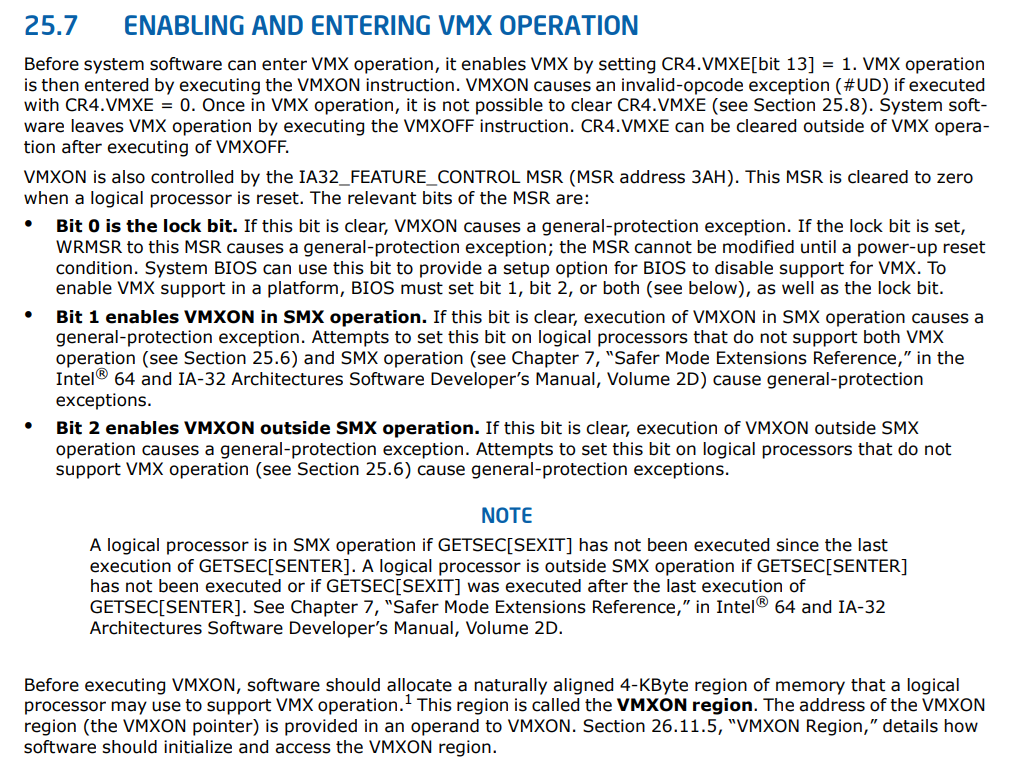
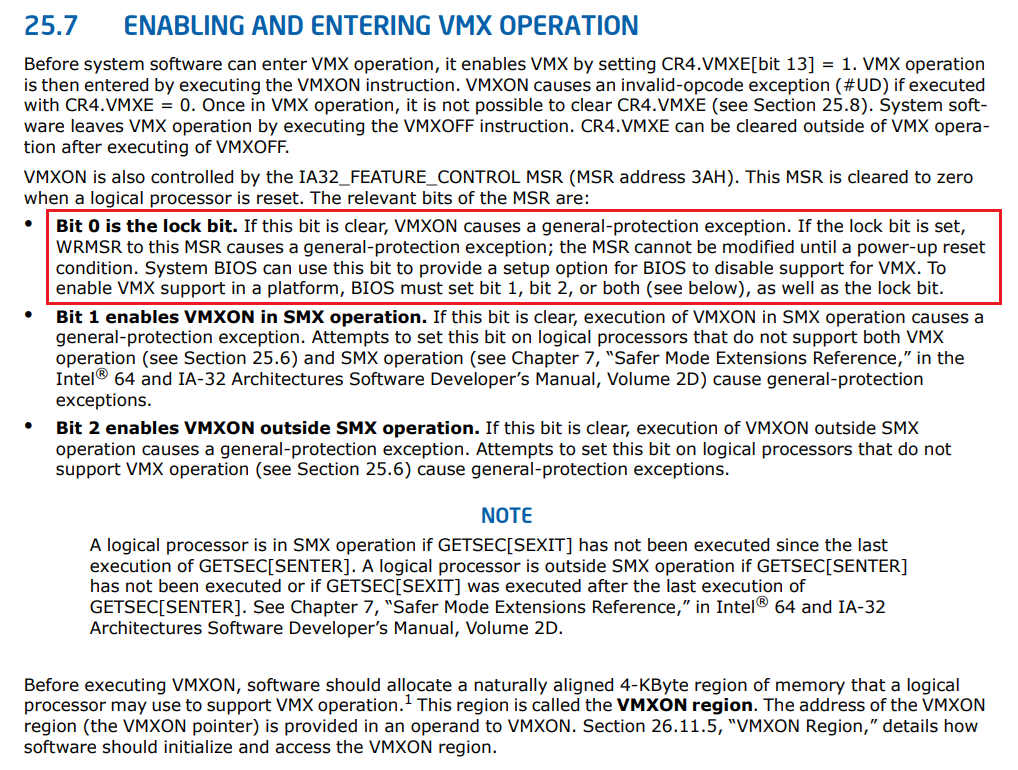
Intel Architecture

Changed region(s): [[0.0305, 0.2805, 1.0, 0.4052], [0.0609, 0.2494, 0.9745, 0.2805]]

diff --git a/_posts/2025-04-28-EPT.md b/_posts/2025-04-28-EPT.md
@@ -1,11 +1,11 @@
 ---
 title: Extended Page Table
 date: 2025-04-28 00:00:00 +/-TTTT
-categories: [Windows Internals]
-tags: [Windows Internals]
+categories: [Intel Architecture]
+tags: [Intel Architecture]
 ---
 
-작성 중... 내용이 너무 방대하다..
+작성 중... 내용이 너무 방대하다.. 
 
 ## EPT (Extended Page Table)
 EPT는 Intel CPU에서 제공하는 VT-x 메모리 가상화 기술 중 일부에 해당됩니다.  
@@ -175,24 +175,49 @@ produces a general-protection exception (#GP(0)).
 ```
 ### IA32_VMX_BASIC
 IA32_VMX_BASIC(480H)를 통해 반환되는 정보는 다음과 같습니다.  
-53:50에 해당되는 비트는 VMCS 및 참조되는 구조체에 대한 메모리 타입(Uncacheable, WriteBack 등)을 반환합니다.
+53:50 비트에 해당되는 값은 VMCS 및 참조되는 구조체에 대한 메모리 타입(Uncacheable, WriteBack)을 나타냅니다.
 ![](/assets/posts/2025-04-28-EPT/11.png)
 
 ### IA32_FEATURE_CONTROL
-IA32_FEATURE_CONTROL(3A)를 통해 제어어되는 정보는 다음과 같습니다.  
-비트 0
+IA32_FEATURE_CONTROL(3A)은 VMX 기능을 활성화하고 조회하는데 사용됩니다.  
+하이퍼바이저를 실행하기 위해서는 CR4.VMXE 비트를 1으로 설정하고, MSR을 통해 VMX(VMXON)을 활성화해야 합니다.  
+```
+24.7 ENABLING AND ENTERING VMX OPERATION
+
+Before system software can enter VMX operation, it enables VMX by setting CR4.VMXE[bit 13] = 1. VMX operation
+is then entered by executing the VMXON instruction. VMXON causes an invalid-opcode exception (#UD) if executed
+with CR4.VMXE = 0. Once in VMX operation, it is not possible to clear CR4.VMXE (see Section 24.8). System software leaves VMX operation by executing the VMXOFF instruction. CR4.VMXE can be cleared outside of VMX operation after executing of VMXOFF.
+
+VMXON is also controlled by the IA32_FEATURE_CONTROL MSR (MSR address 3AH). This MSR is cleared to zero
+when a logical processor is reset.
+```
+
+0비트에 해당되는 값은 VMX에 대한 잠금 기능입니다. 해당 값을 1로 변경한 경우 VMX가 활성화된 것을 의미합니다.  
+해당 비트를 1으로 변경한 경우 프로세서가 리셋되기 전까지 WRMSR을 통해 값을 다시 변경할 수 없습니다.  
 ![](/assets/posts/2025-04-28-EPT/14.png)
 
+1, 2비트에 해당되는 값은 VMXON에 대한 활성화 기능입니다. BIOS 화면에서 설정이 가능하며 인텔에서는 0비트와 함께 설정을 요구하고 있습니다.  
+1비트는 SMX, 2비트는 Non-SMX 환경을 의미합니다. 대부분의 하이퍼바이저에서는 2비트를 활성화해야 동작합니다.  
+![](/assets/posts/2025-04-28-EPT/15.png)
+
 ### IA32_VMX_EPT_VPID_CAP
-IA32_VMX_EPT_VPID_CAP(48CH)를 통해 반환되는 정보는 다음과 같습니다.  
+IA32_VMX_EPT_VPID_CAP(48CH)은 EPT와 VPID에 대한 지원 여부를 나타냅니다.  
 ![](/assets/posts/2025-04-28-EPT/13.png)
 
-## CR4 (Control Register 4)
+## Control Register
+## CR0
+## CR1
+## CR2
+## CR3
+## CR4
 ### VMXE
+## CR8
 
 ## VMCS (Virtual Machine Control Structure)
 ### Secondary
 ### Primary
+
+## VMXON
 
 ## Ddimon (HyperPlatform)
 앞서 분석한 내용들을 바탕으로 실제 EPT 후킹을 구현한 프로젝트를 살펴보겠습니다.  
@@ -377,13 +402,79 @@ VMCALL,2 VMCLEAR, VMLAUNCH, VMPTRLD, VMPTRST, VMRESUME, VMXOFF, and VMXON.
   }
 ```
 
-다음으로 MSR을 통해 
+다음으로 MSR을 통해 VMCS 및 참조되는 구조체에 대한 메모리 타입(Uncacheable, WriteBack)를 읽습니다.  
+아래 코드에서는 읽어온 메모리 타입이 WriteBack이 아닌 경우 실패를 반환합니다.  
+```cpp
+  // See: BASIC VMX INFORMATION
+  // The first processors to support VMX operation use the write-back type.
+  const Ia32VmxBasicMsr vmx_basic_msr = {UtilReadMsr64(Msr::kIa32VmxBasic)};
+  if (static_cast<memory_type>(vmx_basic_msr.fields.memory_type) !=
+      memory_type::kWriteBack) {
+    HYPERPLATFORM_LOG_ERROR("Write-back cache type is not supported.");
+    return false;
+  }
+```
+
+다음으로 MSR을 통해 VMX(VMXON) lock bit를 활성화 합니다. 해당 값은 모든 프로세서를 대상으로 적용됩니다.  
+또한 BIOS 설정에서 VT-x 기능이 활성화 되어있는지 체크합니다.  
+```cpp
+  // See: ENABLING AND ENTERING VMX OPERATION
+  Ia32FeatureControlMsr vmx_feature_control = {
+      UtilReadMsr64(Msr::kIa32FeatureControl)};
+  if (!vmx_feature_control.fields.lock) {
+    HYPERPLATFORM_LOG_INFO("The lock bit is clear. Attempting to set 1.");
+    const auto status = UtilForEachProcessor(VmpSetLockBitCallback, nullptr);
+    if (!NT_SUCCESS(status)) {
+      return false;
+    }
+  }
+  if (!vmx_feature_control.fields.enable_vmxon) {
+    HYPERPLATFORM_LOG_ERROR("VMX features are not enabled.");
+    return false;
+  }
+```
+
+다음으로 MSR을 통해 EPT 및 VPID에 대한 기능 지원 여부를 체크합니다.
+```cpp
+  if (!EptIsEptAvailable()) {
+    HYPERPLATFORM_LOG_ERROR("EPT features are not fully supported.");
+    return false;
+  }
+```
+```cpp
+// Checks if the system supports EPT technology sufficient enough
+_Use_decl_annotations_ bool EptIsEptAvailable() {
+  PAGED_CODE();
+
+  // Check the followings:
+  // - page walk length is 4 steps
+  // - extended page tables can be laid out in write-back memory
+  // - INVEPT instruction with all possible types is supported
+  // - INVVPID instruction with all possible types is supported
+  Ia32VmxEptVpidCapMsr capability = {UtilReadMsr64(Msr::kIa32VmxEptVpidCap)};
+  if (!capability.fields.support_page_walk_length4 ||
+      !capability.fields.support_write_back_memory_type ||
+      !capability.fields.support_invept ||
+      !capability.fields.support_single_context_invept ||
+      !capability.fields.support_all_context_invept ||
+      !capability.fields.support_invvpid ||
+      !capability.fields.support_individual_address_invvpid ||
+      !capability.fields.support_single_context_invvpid ||
+      !capability.fields.support_all_context_invvpid ||
+      !capability.fields.support_single_context_retaining_globals_invvpid) {
+    return false;
+  }
+  return true;
+}
+```
 
 ## References
 ### Documents
 - [Intel® 64 and IA-32 Architectures Software Developer’s Manual](https://www.intel.com/content/www/us/en/developer/articles/technical/intel-sdm.html)
+
 ### Source Code
 - [HyperPlatform](https://github.com/tandasat/HyperPlatform)
 - [Ddimon](https://github.com/tandasat/DdiMon)
+
 ### Web Links
 - [Top 10 Hypervisors: A Comprehensive Guide to Types, Advantages, and Disadvantages](https://faun.pub/top-10-hypervisors-a-comprehensive-guide-to-types-advantages-and-disadvantages-c27da95c4e11)

diff --git a/_posts/2024-05-24-pml4.md b/_posts/2024-05-24-pml4.md
@@ -1,8 +1,8 @@
 ---
 title: Intel 4-level paging
 date: 2024-05-24 00:00:00 +/-TTTT
-categories: [Windows Internals]
-tags: [Windows Internals]
+categories: [Intel Architecture]
+tags: [Intel Architecture]
 ---
 
 ## Intel 4-level paging
